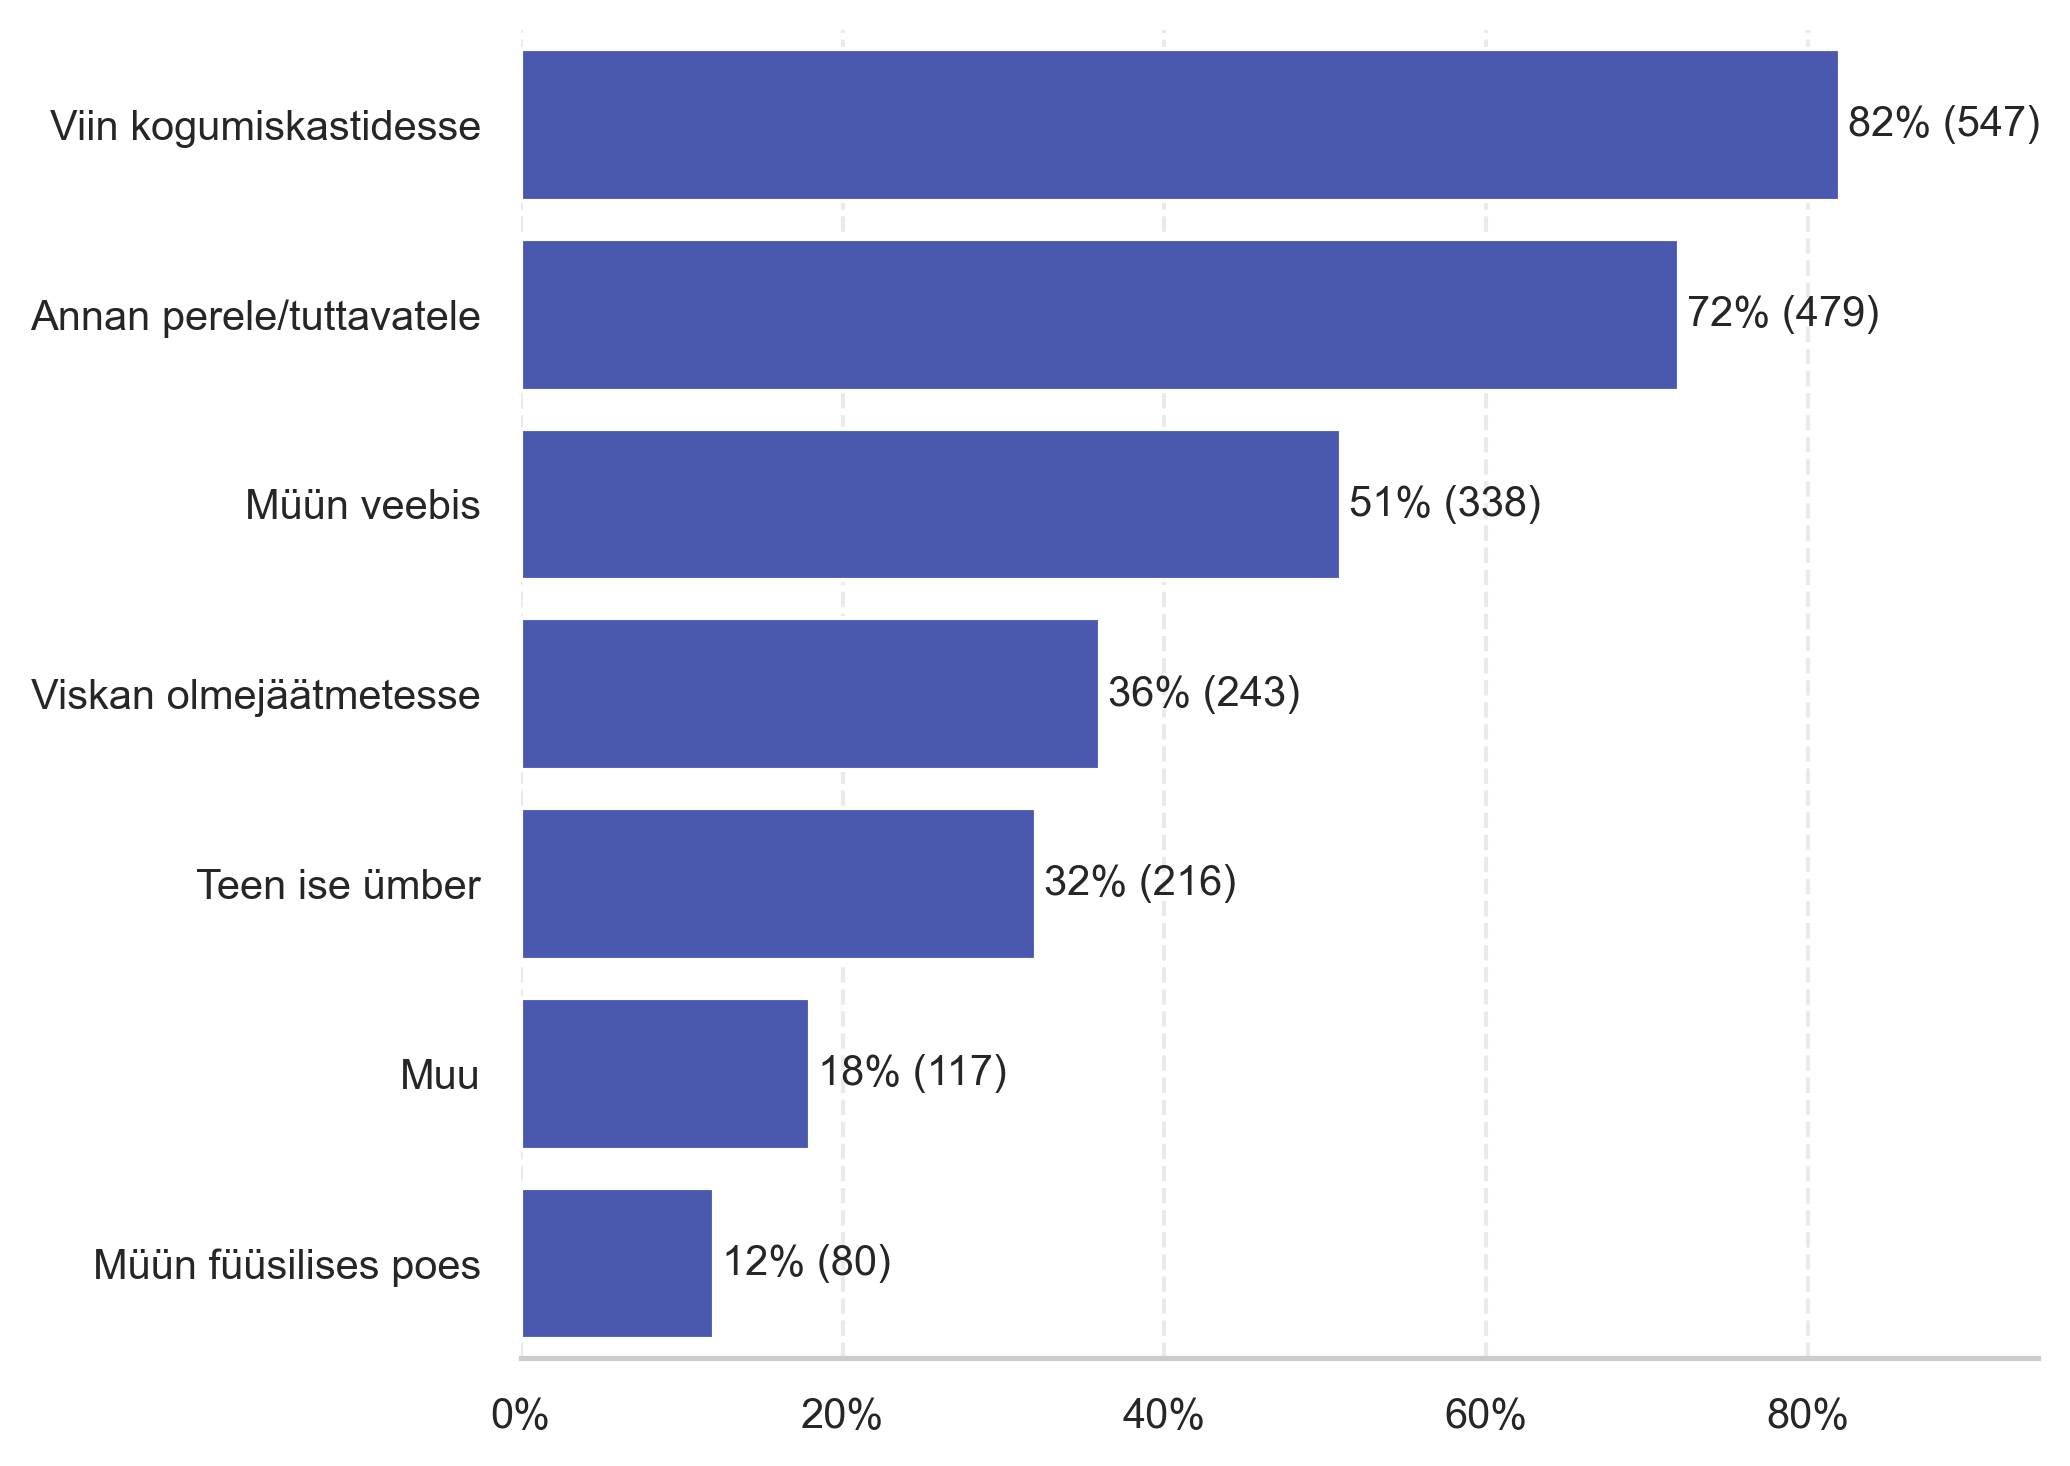
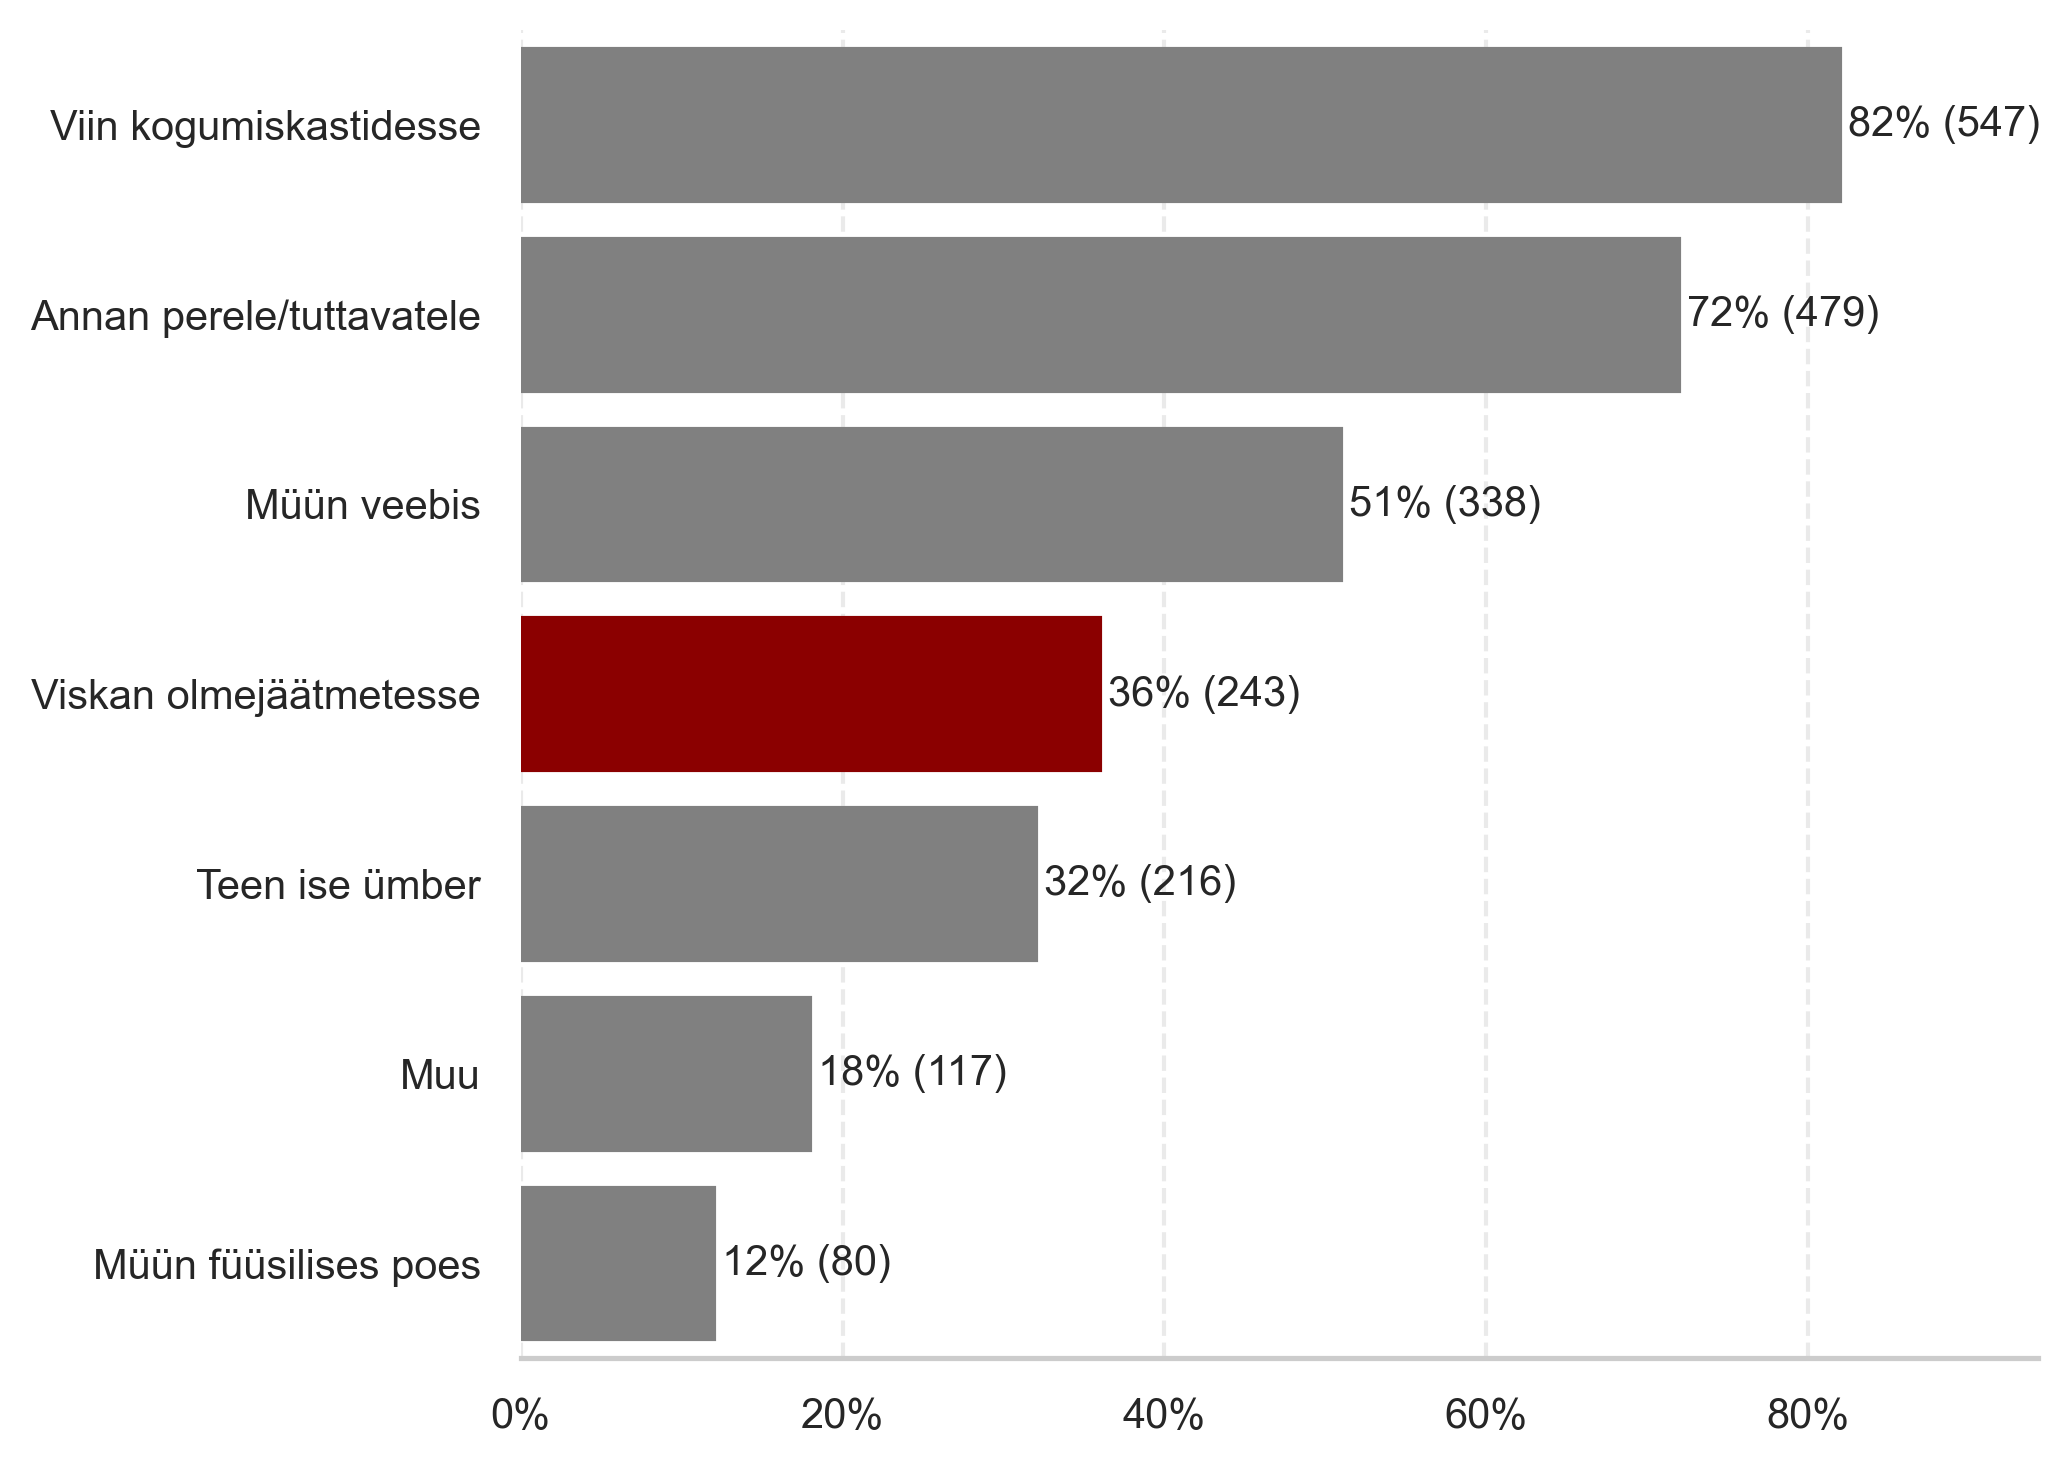
readme täiendus

Changed region(s): [[0.2473, 0.0307, 0.8966, 0.9209]]

diff --git a/Streamlit/kokkuvote.py b/Streamlit/kokkuvote.py
@@ -236,4 +236,4 @@ st.write('- Tõsta nooremate vanusegruppide teadlikkust läbi suunatud teavitust
 st.write('- Kommunikeerida senisest oluliselt selgemalt ning praktiliste näidete varal tekstiiljäätmete eraldi sorteerimise ning kogumise nõude sisu ning juhiseid selle rakendamiseks.')
 st.write('- Viia läbi kampaaniaid, mis pakuvad osalejale motiveerivat tasu (nt sooduskupong) rõivaste ja tekstiilide ringlusse saatmisel.')
 st.write('- Kogumissüsteemi loomisel võtta arvesse tarbijate vajadust kodulähedaste ja/või sagedasti külastatavates asukohtades asuvate kogumispunktide järele.')
-st.write('- Teostada kordusuuring, kuhu on kaasatud mitmekesisemate demograafiliste näitajatega tarbijad.')
+st.write('- Teostada kordusuuring, kuhu on kaasatud mitmekesisemate demograafiliste näitajatega.')

diff --git a/README.md b/README.md
@@ -358,7 +358,7 @@ Erinevad vanusegrupid tarbivad rõivaid ja kodutekstiile erinevalt. Samuti erine
 
 **Vastajate jaotus vanusegruppide lõikes**
 
-<img alt="jaotus vanusegruppide lõikes" src="Documentation/vanuse_jaotus.png" style="border-radius:15%;"/>
+<img alt="jaotus vanusegruppide lõikes" src="Documentation/vanuse_jaotus.png" style="border-radius:15px;"/>
 
 ### 6.1.2. Vastajate peamine elukoht
 
@@ -366,7 +366,7 @@ Uuringus osalesid inimesed üle Eesti, kuid kõige suurem osa vastajatest elab H
 
 **Vastajate jaotus maakonna lõikes**
 
-<img alt="jaotus maakondade lõikes" src="Documentation/elukoha_jaotus.png" style="border-radius:15%;"/>
+<img alt="jaotus maakondade lõikes" src="Documentation/elukoha_jaotus.png" style="border-radius:15px;"/>
 
 Kuna vastajate esindatus enamuses Eesti maakondades on madal, siis edasise analüüsi käigus koondatakse vähese vastajate hulgaga maakonnad vastusevariandi "Muu" alla.
 
@@ -384,7 +384,7 @@ Uuringus osalejatelt küsiti nende teadlikkust 2025. aasta algul jõustunud sead
 
 **Vastajate jaotus teadlikkuse lõikes**
 
-<img alt="teadlikkus seadusest" src="Documentation/teadlikkus_seadusest.png" style="border-radius:15%;"/>
+<img alt="teadlikkus seadusest" src="Documentation/teadlikkus_seadusest.png" style="border-radius:15px;"/>
 
 ### 6.2.2. Teadmiste hinnangu mõju teadlikkusele
 
@@ -394,7 +394,7 @@ Vastanute hulgas, kes hindavad oma teadmisi väga madalaks või pigem madalaks, 
 
 **Vastajate hinnang teadmistele vs teadlikkus uuest seadusest**
 
-<img alt="hinnang teadmistele vs teadlikkus uuest seadusest" src="Documentation/teadlikkus_vs_teadmised.png" style="border-radius:15%;"/>
+<img alt="hinnang teadmistele vs teadlikkus uuest seadusest" src="Documentation/teadlikkus_vs_teadmised.png" style="border-radius:15px;"/>
 
 Enesehinnatud teadmiste ja teadlikkuse vahelise seose hindamiseks viidi läbi hi-ruuttest. Tulemused näitavad statistiliselt olulist seost - hii-ruut-statistiku väärtuseks on 81.4881 (p=0.0000). See ei ole juhus, et vastajad, kes on hinnanud oma teadmiseid kõrgemaks olid teadlikumad uues seadusest, samas kui madalama teadmiste hinnanguga vastajad olid sagedamini teadmatud. Ehk on olemas selge seos enesehinnanguliste teadmiste ning seadusest teadlikkuse vahel.
 
@@ -404,7 +404,7 @@ Enesehinnatud teadmiste ja teadlikkuse vahelise seose hindamiseks viidi läbi hi
 
 **Vastajate jaotus kommunikatsiooni selguse lõikes**
 
-<img alt="hinnang teadmistele vs teadlikkus uuest seadusest" src="Documentation/kommunikatsiooni_selgus.png" style="border-radius:15%;"/>
+<img alt="hinnang teadmistele vs teadlikkus uuest seadusest" src="Documentation/kommunikatsiooni_selgus.png" style="border-radius:15px;"/>
 
 ### 6.2.4. Kommunikatsiooni selguse mõju teadlikkusele
 
@@ -412,9 +412,57 @@ Vastustest tuleneb, et vastajatest, kes on hinnanud kommunikatsiooni väga selge
 
 **Kommunikatsiooni selgus vs teadlikkus uuest seadusest**
 
-<img alt="hinnang teadmistele vs teadlikkus uuest seadusest" src="Documentation/kommunikatsioon_vs_teadlikkus.png" style="border-radius:15%;"/>
+<img alt="hinnang teadmistele vs teadlikkus uuest seadusest" src="Documentation/kommunikatsioon_vs_teadlikkus.png" style="border-radius:15px;"/>
 
 Kommunikatsiooni selguse ja teadlikkuse vahelise seose hindamiseks viidi läbi hi-ruuttest. Tulemused näitavad statistiliselt olulist seost - hii-ruut-statistiku väärtuseks on 72.9168 (p=0.0000). See ei ole juhus, et vastajad, kes pidasid kommunikatsiooni väga selgeks olid teadlikumad uuest seadusest, seadusest ei olnud teadlikud vastajad, kes pidasid kommunikatsiooni puudulikuks. Ehk on olemas selge seos kommunikatsiooni selguse ning seadusest teadlikkuse vahel.
+
+## 6.3. Tarbijakäitumine
+
+Oluline on mõista lähemalt tarbijate tänast tekstiilidega seotud käitumisharjumust. Uuringus püüti välja selgitada, mida teeb tarbija täna oma tekstiilidega, mis enam kasutust ei leia ning millised on peamised põhjused esemetest loobumisel.
+
+### 6.3.1. Tänane sorteerimiskäitumine
+
+Uue regulatsiooni kohaselt tuleb tekstiilijäätmeid koguda olmeprügist eraldi. Seetõttu on oluline, et tarbijad mõistaksid tekstiilide liigiti sorteerimise põhimõtteid ning tekstiilide muudest jäätmetest eraldamise vajalikkust. Seetõttu uuriti vastanute harjumusi koduses majapidamises jäätmeid sorteerida.
+
+Uuring näitab, et vastajad sorteerivad jäätmeid üsna aktiivselt. Enamus vastanutest (63%) sorteerib jäätmeid 3-5 erinevas kategoorias ja viiendik (20%) sorteerib üle 5 kategoorias. Vaid 4% vastanutest ei sorteeri jäätmeid üldse, mis on liiga väike grupp, et sellest täiendavaid järeldusi teha.
+
+**Vastajate jaotus sorteerimiskäitumise lõikes**
+
+<img alt="hinnang teadmistele vs teadlikkus uuest seadusest" src="Documentation/sorteerimiskaitumine.png" style="border-radius:15px;"/>
+
+### 6.3.2. Peamised väljakutsed sorteerimisel
+
+Väljakutsed indiviidi tasandil tekstiilide sorteerimisel on erinevad, kuid on oluline mõista põhjuseid, et parandada tekstiilide liigiti kogumist. Seetõttu uuriti vastajatelt millised on nende peamised väljakutsed rõivaste ja tekstiilide sorteerimisel. Vastajal oli võimalik valida mitu vastusevarianti ning vajadusel märkida muu ning seda valikut selgitada. Kõige sagedamini valiti korraga 1-2 takistust.
+
+Kõige suuremaks väljakutseks (46%) peavad vastajad kogumiskohtade puudumist mugavas asukohas. Sellele järgnes moraalne side, mis teeb loobumise keerukaks (35%). Valiti ka ajapuudust (32%) ning transpordi keerukust (24%). Kusjuures tõenäoliselt võivad nii ajapuudus kui ka keerukas tranport olla seotud kogumispunktide ebamugava asukohaga. Lisakas toodi välja ebakindlust tekstiilide seisukorra hindmisel (26%) ning keerukaid sorteerimisjuhendeid (18%).
+
+Vabatekstilistes vastustes mainiti sageli, et puudub teadmine, mida teha rõivastega, millel on küll palju kõlblikku materjali, kuid mida enam kanda ei saa - näiteks kulunud jalgevahega teksadega. Samuti tõid vastajad välja murekohana, et täis riidekonteinerid takistavad asjade äraandmist ning nenditi, et teadmatus esemete saatuse üle on ebakindlust tekitav. Enim aga toodi välja, et puudub konkreetne koht, kuhu viia kulunud, määrdunud ja kasutuskõlbmatud rõivad ja tekstiilid.
+
+**Vastajate jaotus peamiste väljakutsete lõikes**
+
+<img alt="hinnang teadmistele vs teadlikkus uuest seadusest" src="Documentation/valjakutsed.png" style="border-radius:15px;"/>
+
+### 6.3.3. Toimimine mittevajalike rõivaste ja tekstiilidega
+
+Mõistmaks, kuidas tarbija käitub kasutuskõlbulike rõivaste ja kodutekstiilidega, mida ta enam ei vaja, küsiti uuringus osalejatelt valikvastuste ja vabas vormis vastuse esitamise võimalusega mida vastajad selliste tekstiilidega ette võtavad. Kõige sagedamini valiti korraga 3-4 põhjust, mis näitab, et korraga esineb mitu moodust kasutuskõlbulikest tekstiilidest loobumisel ja inimesed ei eelista ühte konkreetset viisi.
+
+Enamus vastanutest (82%) viib kasutuskõlblikud tekstiilid avalikesse kogumiskastidesse ja 72% annab need edasi perele või tuttavatele. Veebis teisel ringil müümine (51%) ja ise tuunimine ning ümber tegemine (32%) on samuti levinud, mis näitab mitmekesiseid loobumisviise ja keskkonnateadlikku lähenemist. Viimasele viitab ka see, et kõige sagedamini valiti koos vastusevariante: “müün veebis”, “annan perele/tuttavatele” ja “teen ise ümber”.
+
+Samas on 36% vastajatest toonud välja, et nad viskavad kasutuskõlbulikud tekstiilid segaolmejäätmetesse. Vabatekstilistest vastustest tuleb välja, et sageli on tegemist katkiste ning määrdunud asjadega ehk tegelikult kasutuskõlbmatute rõivaste ja tekstiilidega. Nenditi, et kuigi linnapildis on nähtud ja teatakse kantavate ja korralike riiete ning tekstiilide kogumispunkte, siis ei teata kuhu viia kasutuskõlbmatuid asju. Ära visatavate esemetena toodi kõige enam välja just sokke ning aluspesu. Ehk vastustest tuleb välja, et olmeprügisse visatakse esemeid parema lahenduse või info puudumise tõttu. Tuntakse muret ning huvi, mida teha just mainitud aluspesu ning sokkidega, mis liigituvad tekstiilijäätmeks, aga ei saa liikuda edasi teisele ringile oma esialgsel kujul. See annab tugeva indikatsiooni parandada riigi ja KOV-ide kommunikatsiooni seoses tekstiilijäätmete sorteerimisega.
+
+**Käitumine mittevajalikest tekstiilidest loobumisel**
+
+<img alt="hinnang teadmistele vs teadlikkus uuest seadusest" src="Documentation/kasutuskolblikud_tekstiilid.png" style="border-radius:15px;"/>
+
+### 6.3.4. Kasutuskõlbmatutest tekstiilidest loobumise viisid
+
+Selleks, et mõista kuidas tarbijad hetkel kasutuskõlbmatute tekstiilidega toimivad, küsiti kuhu peamiselt viiakse kasutuskõlbmatud rõivad ja tekstiilid. Vastajal oli võimalik valida mitu vastusevarianti ning oma vastuseid vabatekstiväljal täpsustada. Kõige enam valiti korraga vaid 1 sobiv variant.
+
+Vastustes joonistub välja, et inimestel ei ole ühte selget viisi, mil moel kasutuskõlbmatute tekstiilidega kõige targemini toimetada. Ülekaalukalt kõige sagedamini valiti segaolmejäätmete konteineritesse viimist (57%), mis ei ole nõuetekohane ega ka keskkonnasõbralik lahendus, kuid mis oli lubatud praktika enne 2025. aasta jaanuari. Rõivakonteineritesse viimine (36%) on samuti levinud, kuigi neisse konteineritesse oodatakse vaid kasutuskõlbulikke rõivaid ja tekstiile. Jäätmejaama viib ainult 14%, mis on õige viis, kuid selgelt alakasutatud. See näitab vajadust parema info järele kasutuskõlbmatute tekstiilide käitlemise kohta.
+
+** Vastajate jaotus kasutuskõlbmatutest tekstiilidest loobumise viiside alusel**
+
+<img alt="hinnang teadmistele vs teadlikkus uuest seadusest" src="Documentation/kasutuskolbmatud_tekstiilid.png" style="border-radius:15px;"/>
 
 # 7. Kokkuvõte
 